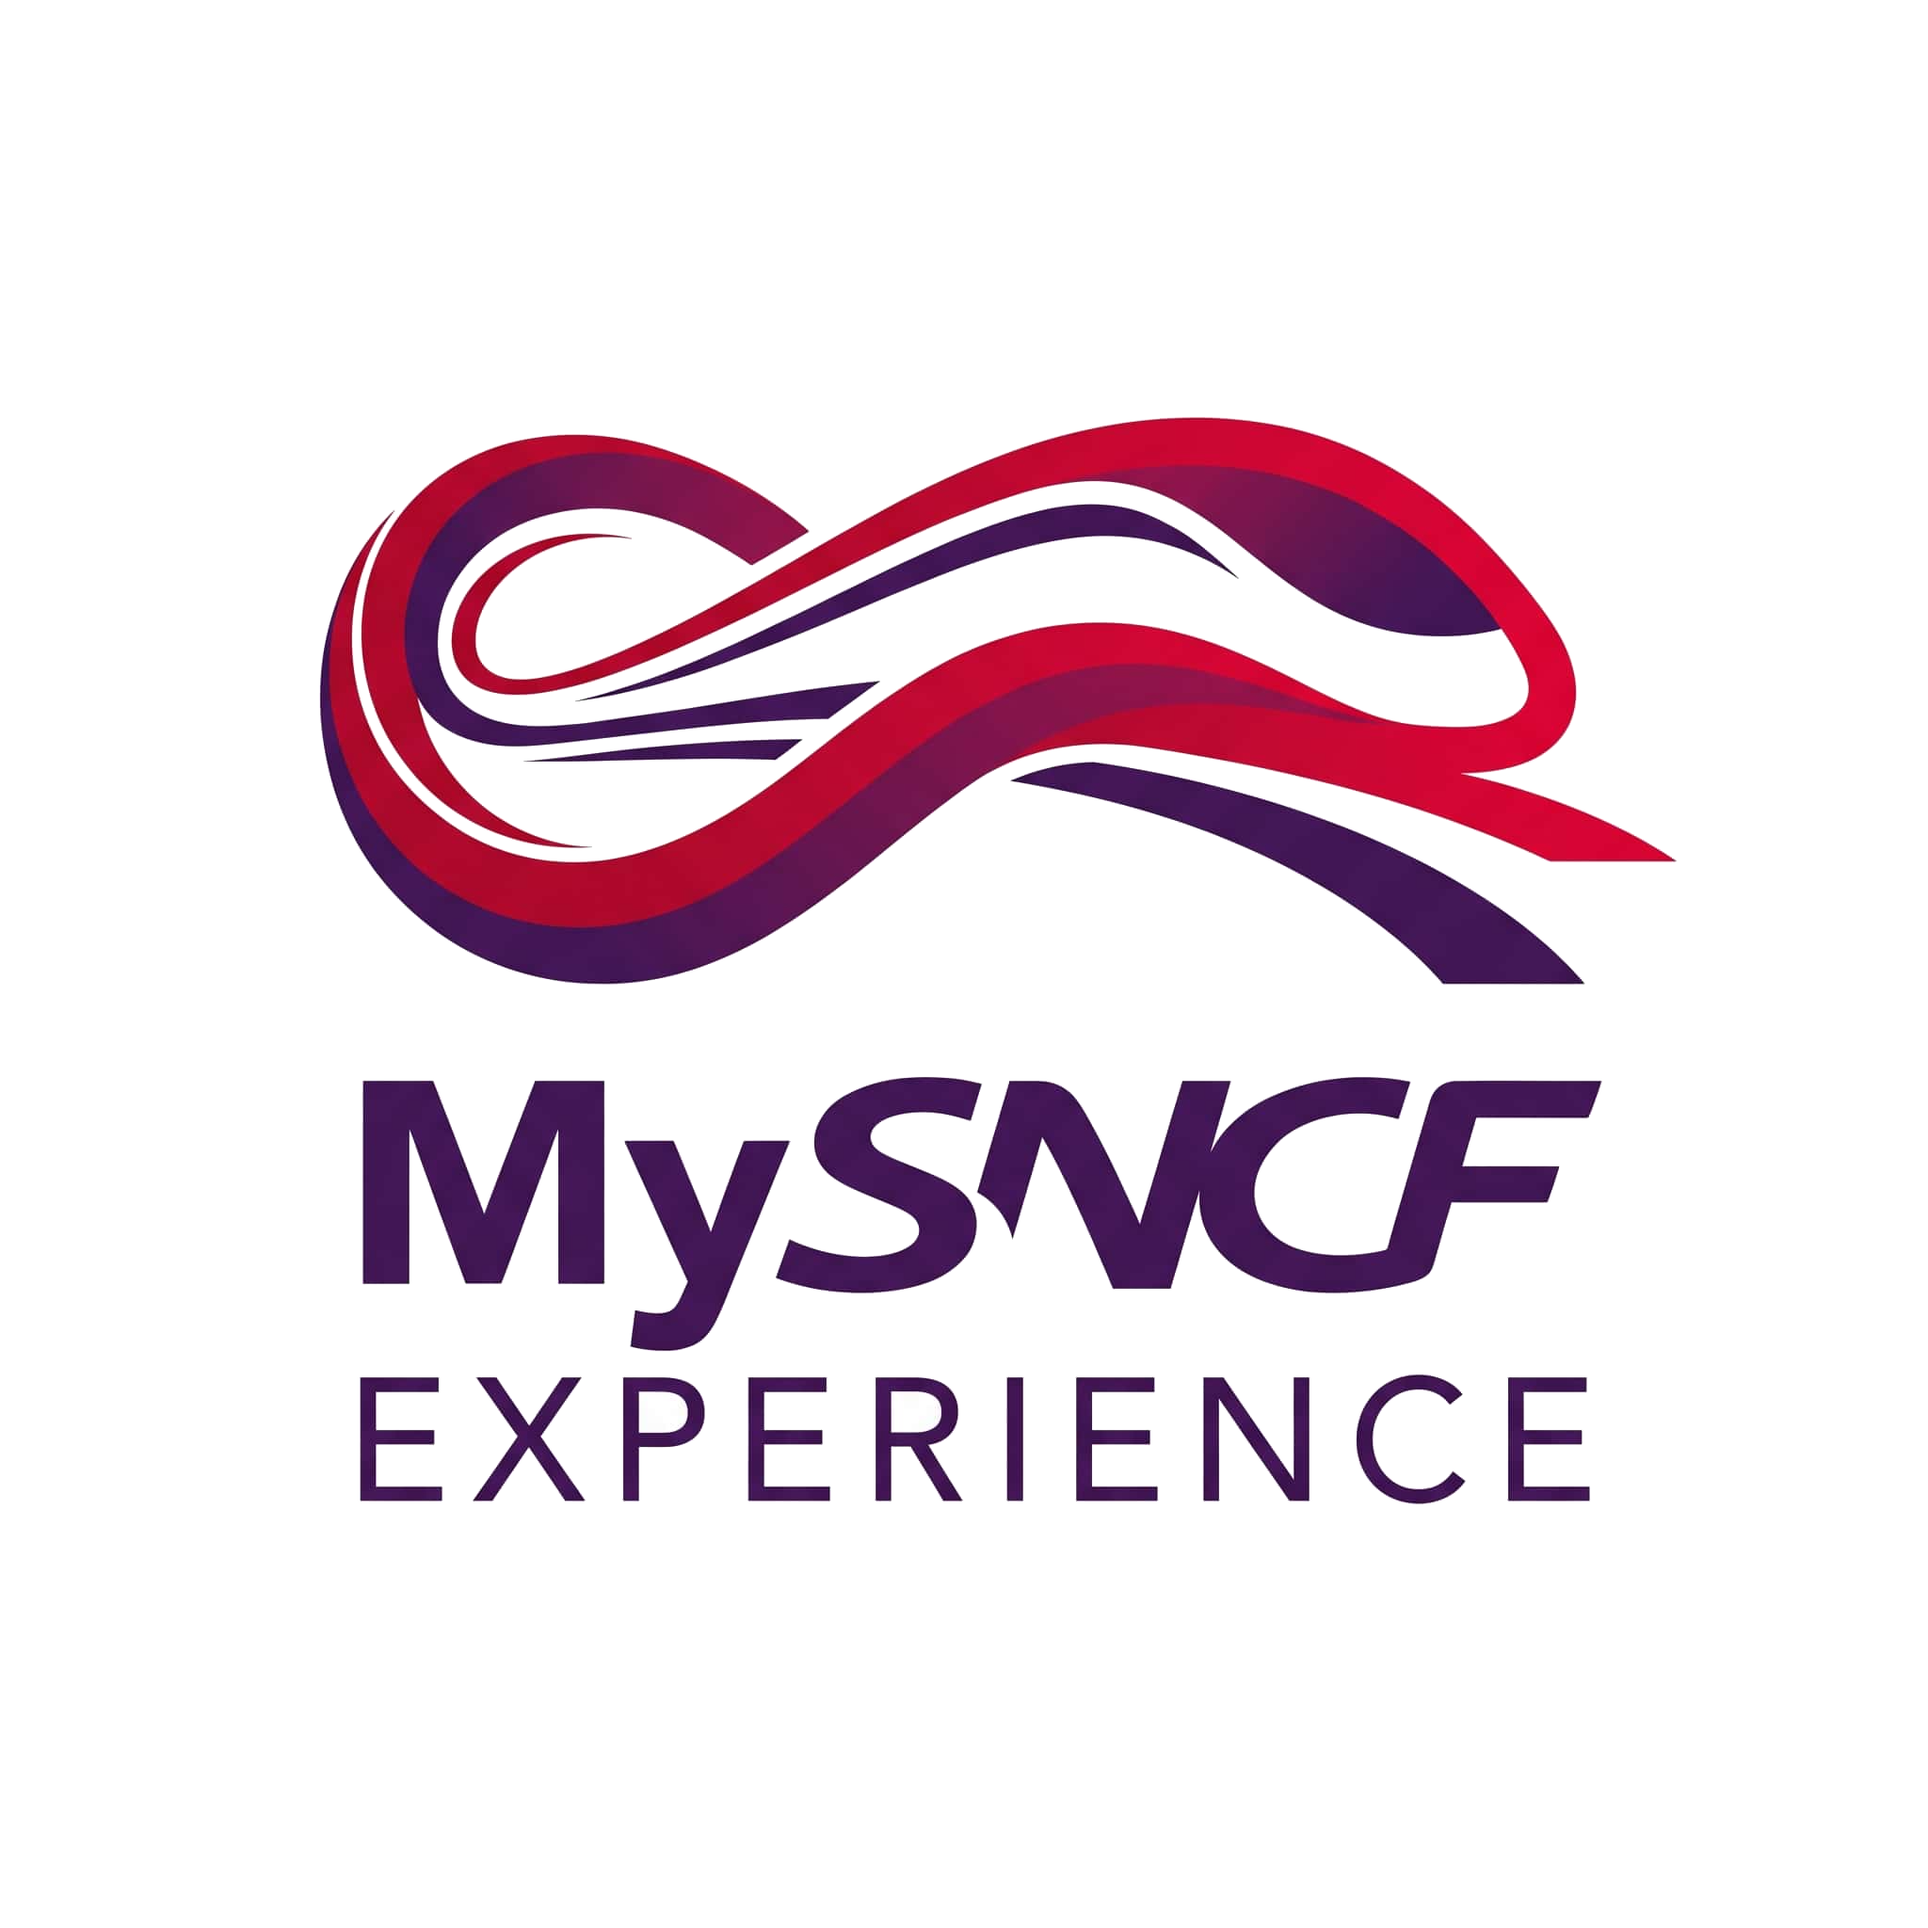
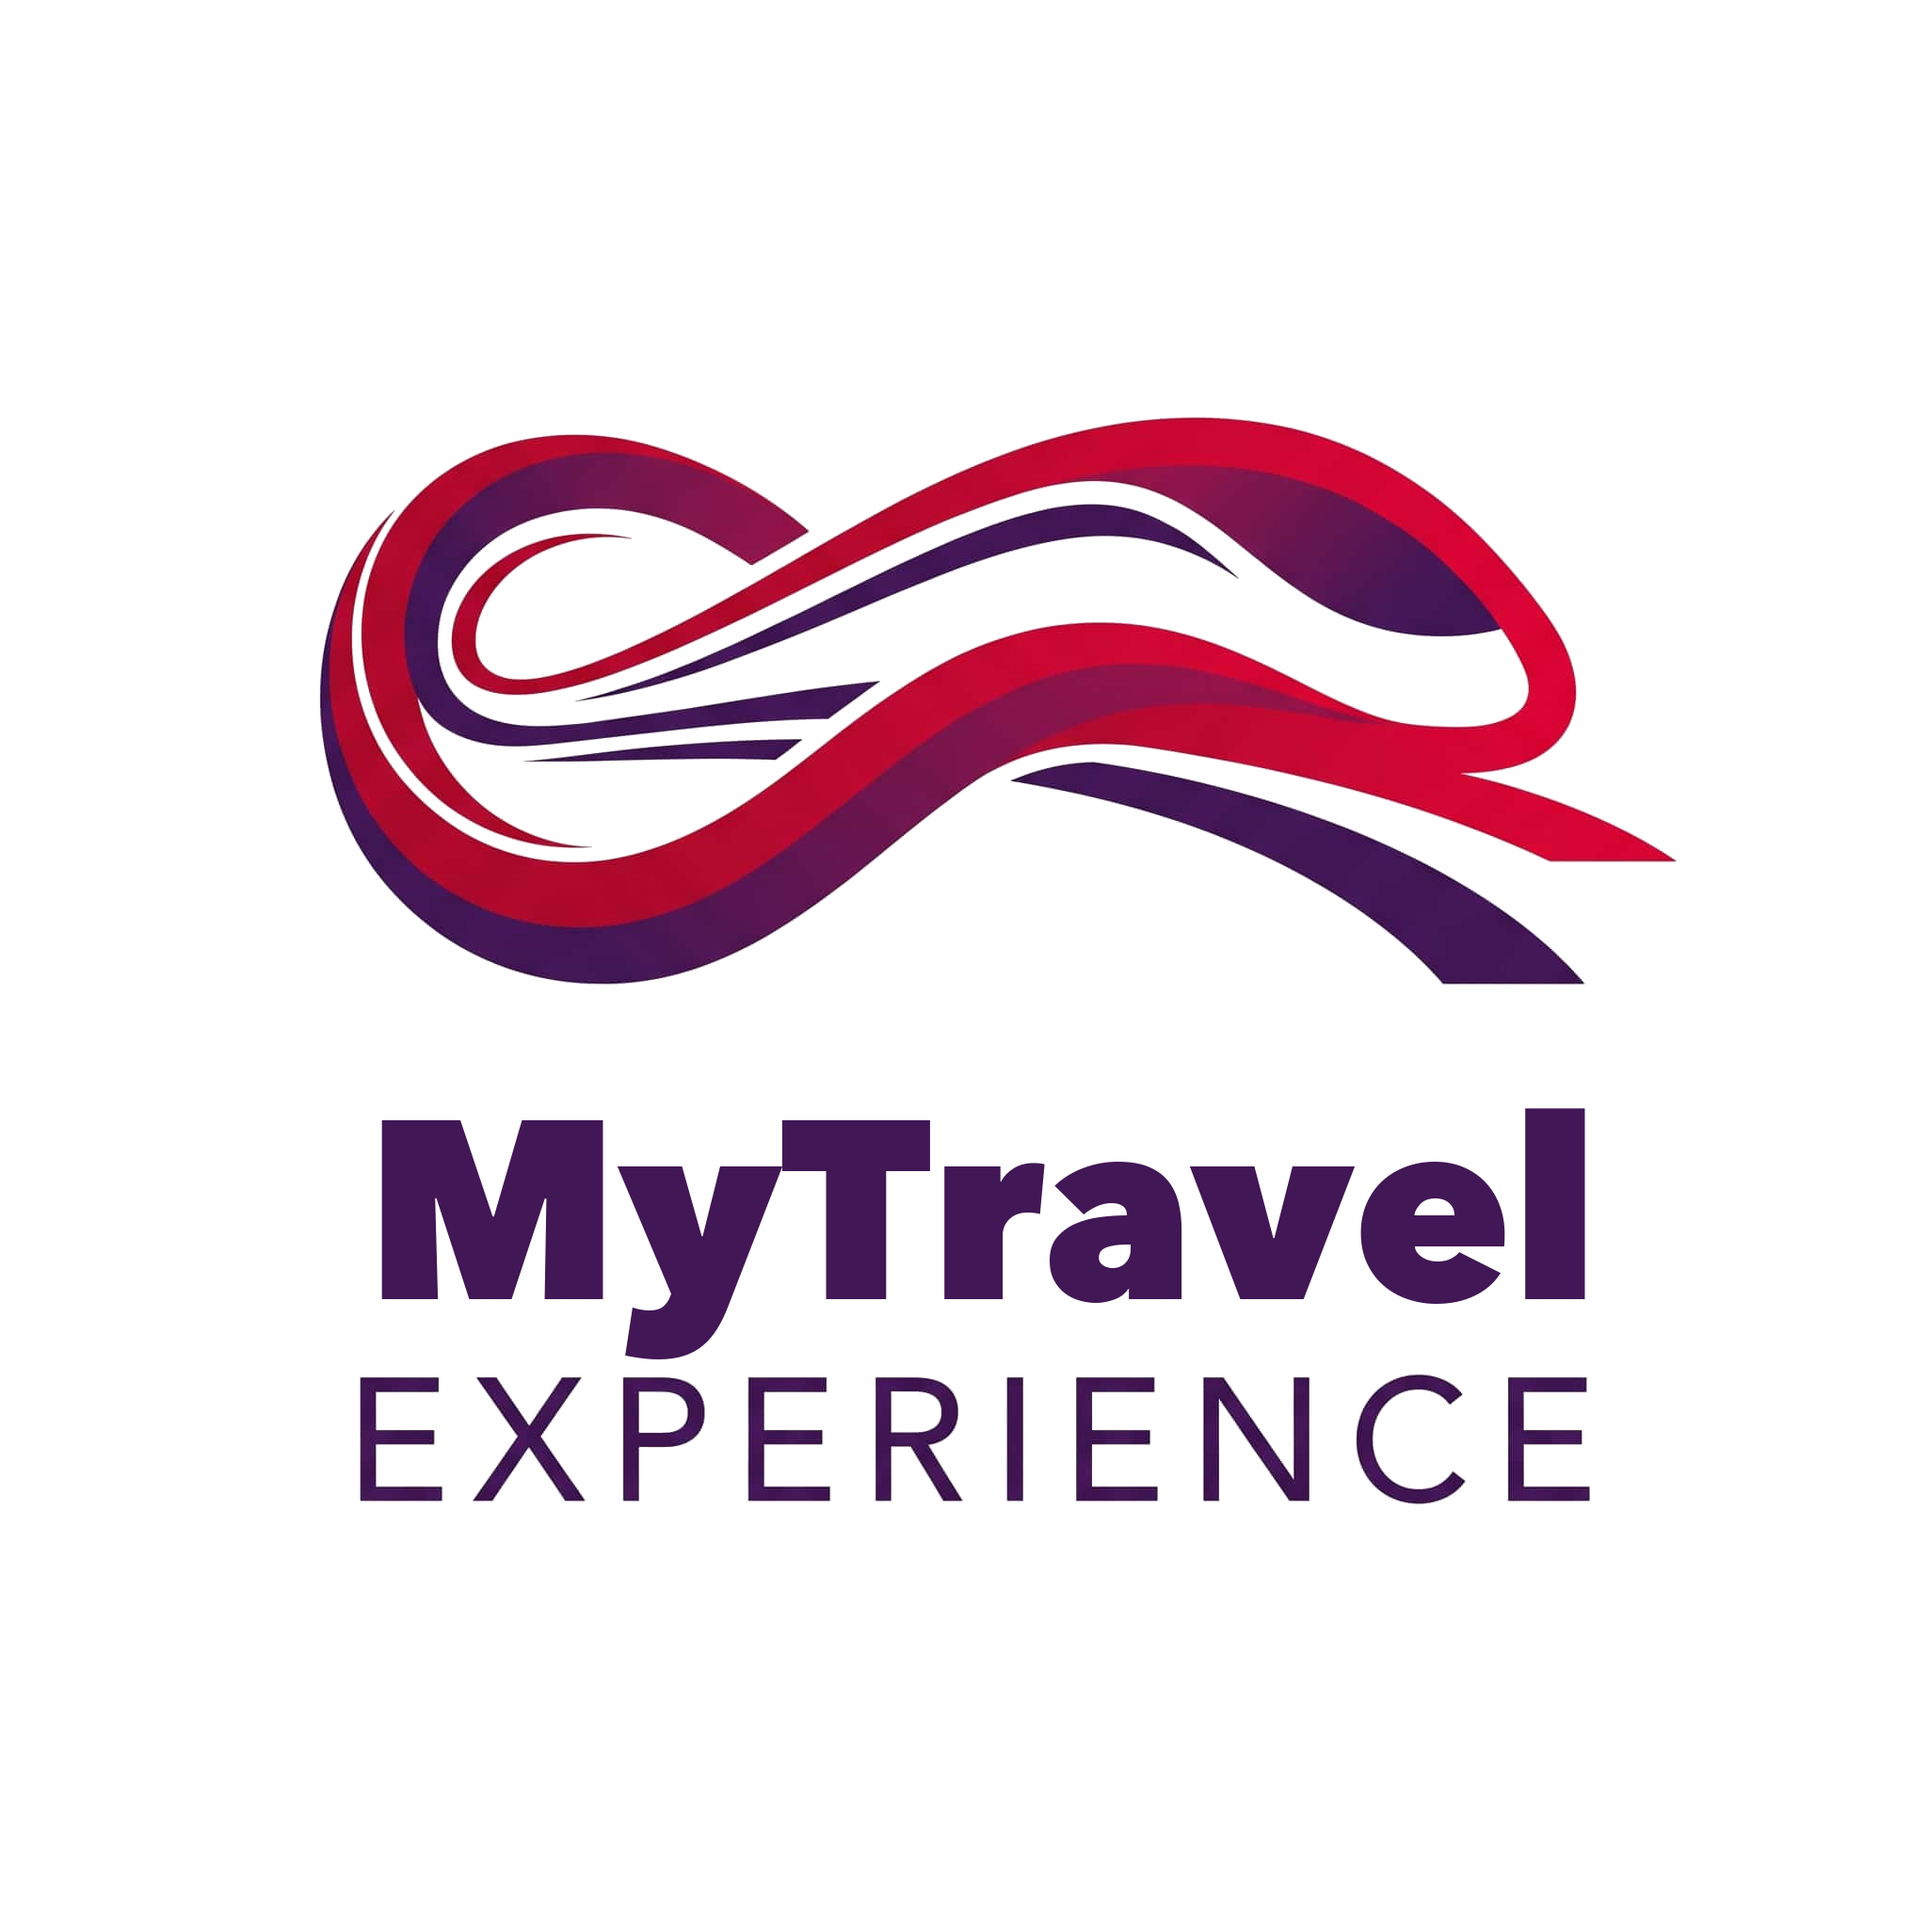
chore: renomme le projet en My Travel Experience
Retire la marque SNCF du nom affiché : logos refaits, fichiers logo
renommés, titres de l'appli, du README et des notebooks mis à jour,
HTTP-Referer qui pointait vers un domaine sncf.fr remplacé.

Changed region(s): [[0.1875, 0.5312, 0.8438, 0.7188]]

diff --git a/src/app.py b/src/app.py
@@ -106,7 +106,7 @@ app = dash.Dash(
     external_scripts=["https://cdn.jsdelivr.net/npm/date-fns@4.1.0/locale/fr/cdn.min.js"],
     suppress_callback_exceptions=True
 )
-app.title = "MySNCF Experience"
+app.title = "My Travel Experience"
 server = app.server        # point d'entrée WSGI pour gunicorn (Docker)
 
 app.index_string = '''
@@ -444,8 +444,8 @@ def generate_ai_analysis_summary(dept_label, kpi_couv, kpi_sites, kpi_blanc, df_
             "https://openrouter.ai/api/v1/chat/completions",
             headers={
                 "Authorization": f"Bearer {api_key}",
-                "HTTP-Referer": "https://mysncf-experience.sncf.fr",
-                "X-Title": "MySNCF Experience",
+                "HTTP-Referer": "https://github.com/Damien-13/MySNCF-Experience",
+                "X-Title": "My Travel Experience",
                 "Content-Type": "application/json"
             },
             json={
@@ -531,7 +531,7 @@ def mise_en_page():
         dbc.Row(id="top-bar", style={"backgroundColor": init_colors["card_bg"], "borderRadius": "12px", **transition_style}, className="px-3 py-2 mb-3 shadow-sm align-items-center justify-content-between", children=[
             dbc.Col(
                 html.Div([
-                    html.Img(id="logo-img", src=LOGO_SRC, alt="Logo MySNCF Experience", style={"maxHeight": "100px", "objectFit": "contain", "borderRadius": "6px", "padding": "2px", "marginRight": "15px"}),
+                    html.Img(id="logo-img", src=LOGO_SRC, alt="Logo My Travel Experience", style={"maxHeight": "100px", "objectFit": "contain", "borderRadius": "6px", "padding": "2px", "marginRight": "15px"}),
                     dbc.Tabs(
                         id="tabs-navigation",
                         active_tab="tab-2",
@@ -925,7 +925,7 @@ def export_report(n_clicks, regions, categorie, destination, debut, fin, kpi_cou
     </head>
     <body>
         <div class="header">
-            <h1 style="margin:0; font-size: 1.8rem;">MySNCF Experience — Rapport Métier d'Accessibilité</h1>
+            <h1 style="margin:0; font-size: 1.8rem;">My Travel Experience — Rapport Métier d'Accessibilité</h1>
             <p style="margin:8px 0 0 0; opacity: 0.9; font-size: 1rem;">Périmètre : {escape(perimetre)} | Édité le : {date.today().strftime('%d/%m/%Y')}</p>
         </div>
         

diff --git a/README.md b/README.md
@@ -1,8 +1,8 @@
 <p align="center">
-  <img src="assets/logo%20MySNCF%20Experience.png" alt="Logo MySNCF Experience" width="140">
+  <img src="assets/logo%20My%20Travel%20Experience.png" alt="Logo My Travel Experience" width="140">
 </p>
 
-<h1 align="center">MySNCF Experience</h1>
+<h1 align="center">My Travel Experience</h1>
 
 <p align="center">
   Aller voir un musée, un site touristique ou un festival en train : trajet, dernier kilomètre et couverture ferroviaire des territoires.
